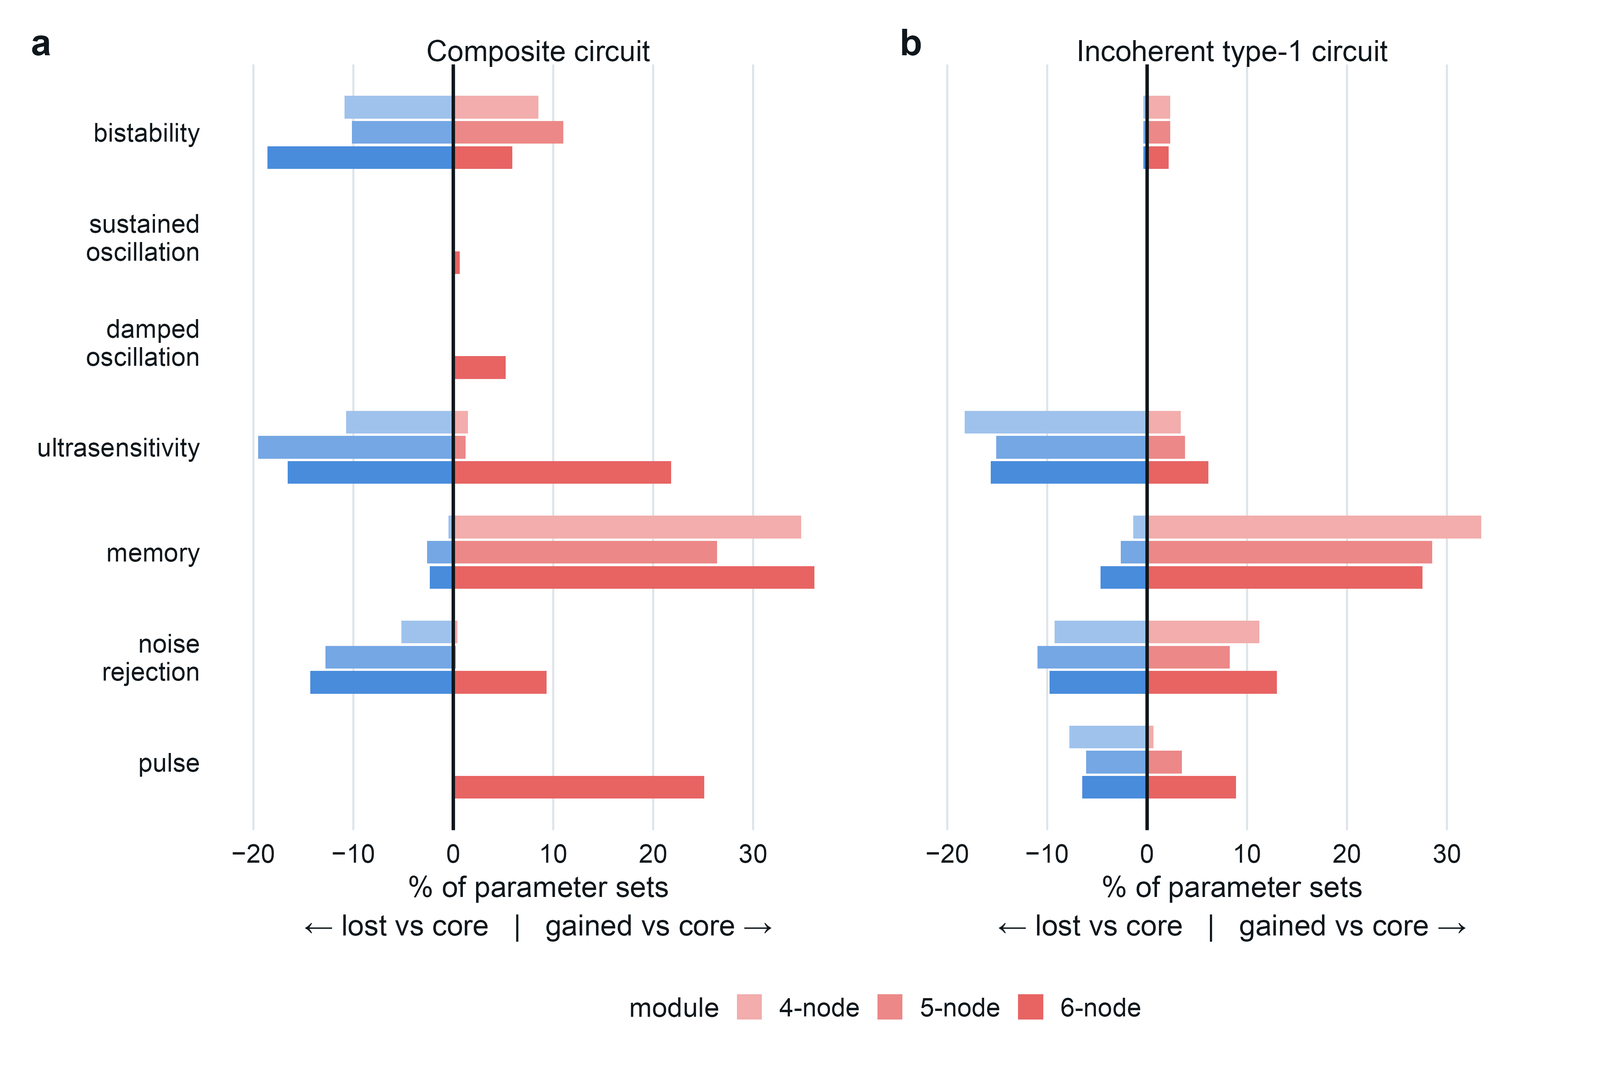
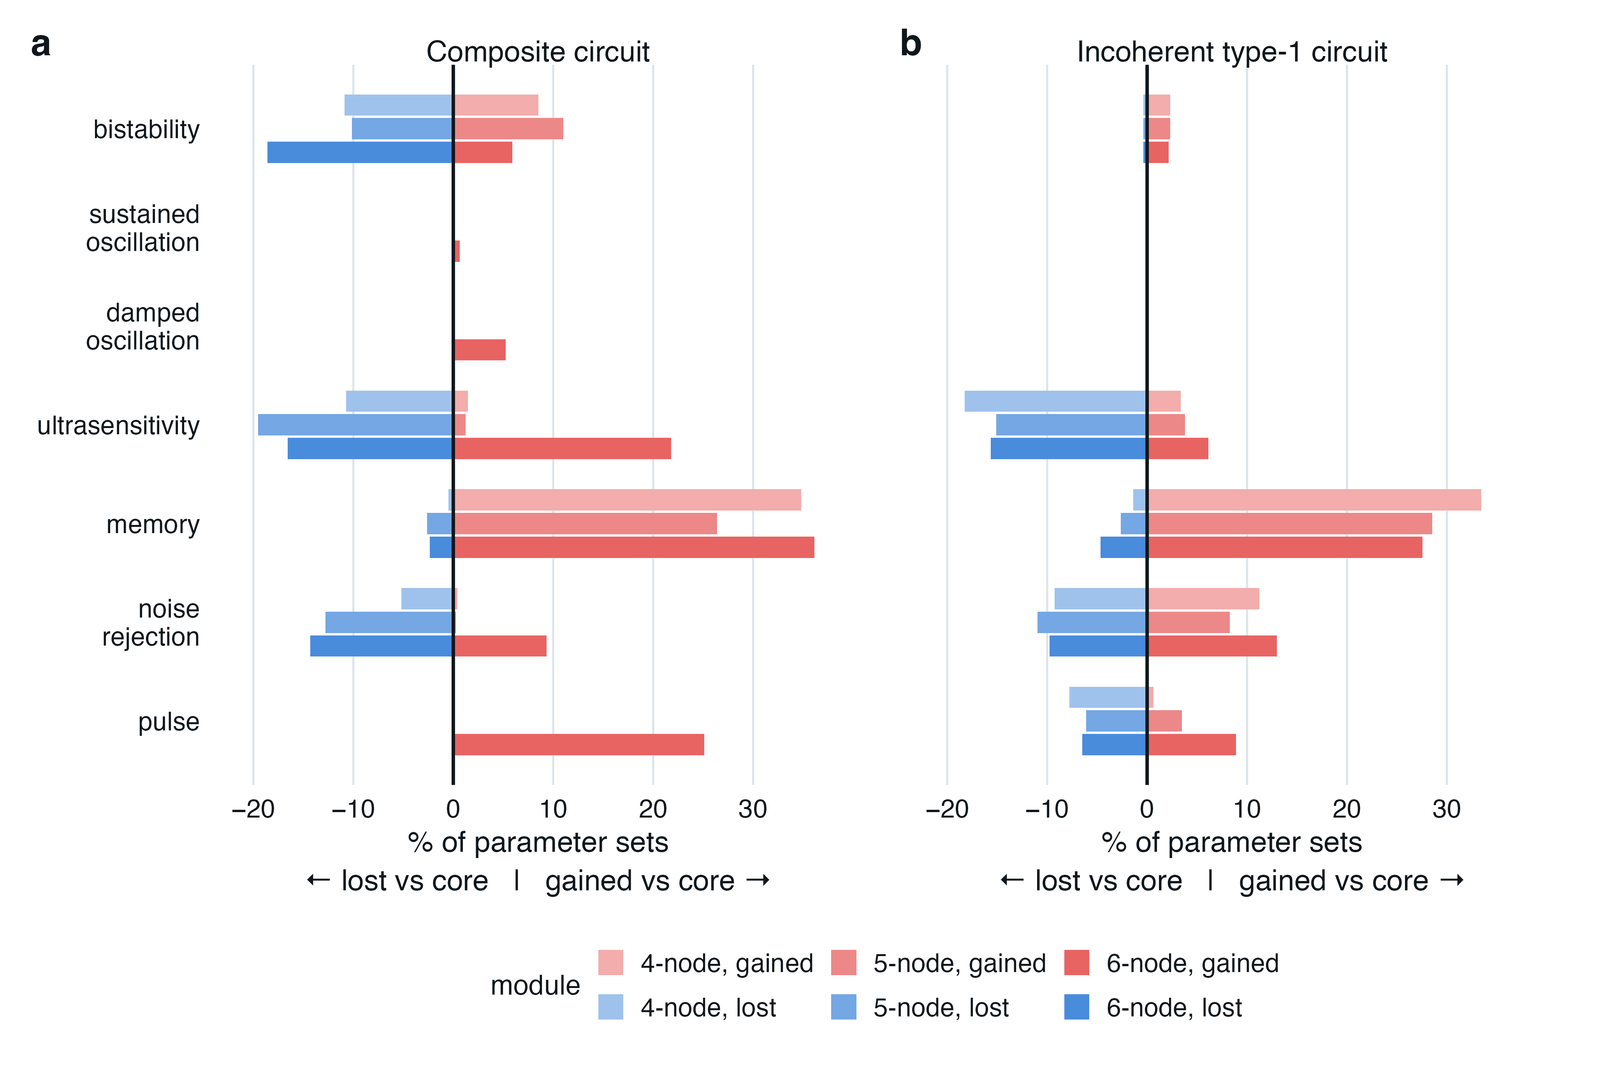
Clarify the keys and labels of Figs 1, 2, 3 and 5

diff --git a/scripts/15_figures_and_tables/74_fig1_concept.py b/scripts/15_figures_and_tables/74_fig1_concept.py
@@ -115,7 +115,8 @@ rect(2, ly - 3.6, 170, 9.4, stroke=COL["light"], fill="#FAFAFA", sw=0.25)
 node("tf", 6, ly + 0.4); text(9, ly + 1.4, "TF", size=2.85)
 node("mirna", 16, ly + 0.4); text(19.5, ly + 1.4, "miRNA", size=2.85)
 node("gene", 32, ly + 0.4); text(35.2, ly + 1.4, "gene", size=2.85)
-edge((44, ly + 0.4), (51, ly + 0.4), "plain", "plain", COL["tf_tgt"], "arrow"); text(53, ly + 1.4, "activation", size=2.85)
+edge((44, ly - 0.9), (51, ly - 0.9), "plain", "plain", COL["tf_tgt"], "arrow")   # TF -> target
+edge((44, ly + 1.7), (51, ly + 1.7), "plain", "plain", COL["tf_mir"], "arrow"); text(53, ly + 1.4, "activation", size=2.85)   # TF -> miRNA, as in panel b and Fig. 2
 edge((70, ly + 0.4), (77, ly + 0.4), "plain", "plain", COL["mir_tgt"], "bar"); text(79, ly + 1.4, "repression by miRNA", size=2.85)
 edge((108, ly + 0.4), (115, ly + 0.4), "plain", "plain", COL["mm"], "none", sw=0.8); text(117, ly + 1.4, "co-clustered pair", size=2.85)
 edge((142, ly + 0.4), (149, ly + 0.4), "plain", "plain", COL["gg"], "arrow", sw=0.7); text(151, ly + 1.4, "gene–gene", size=2.85)
